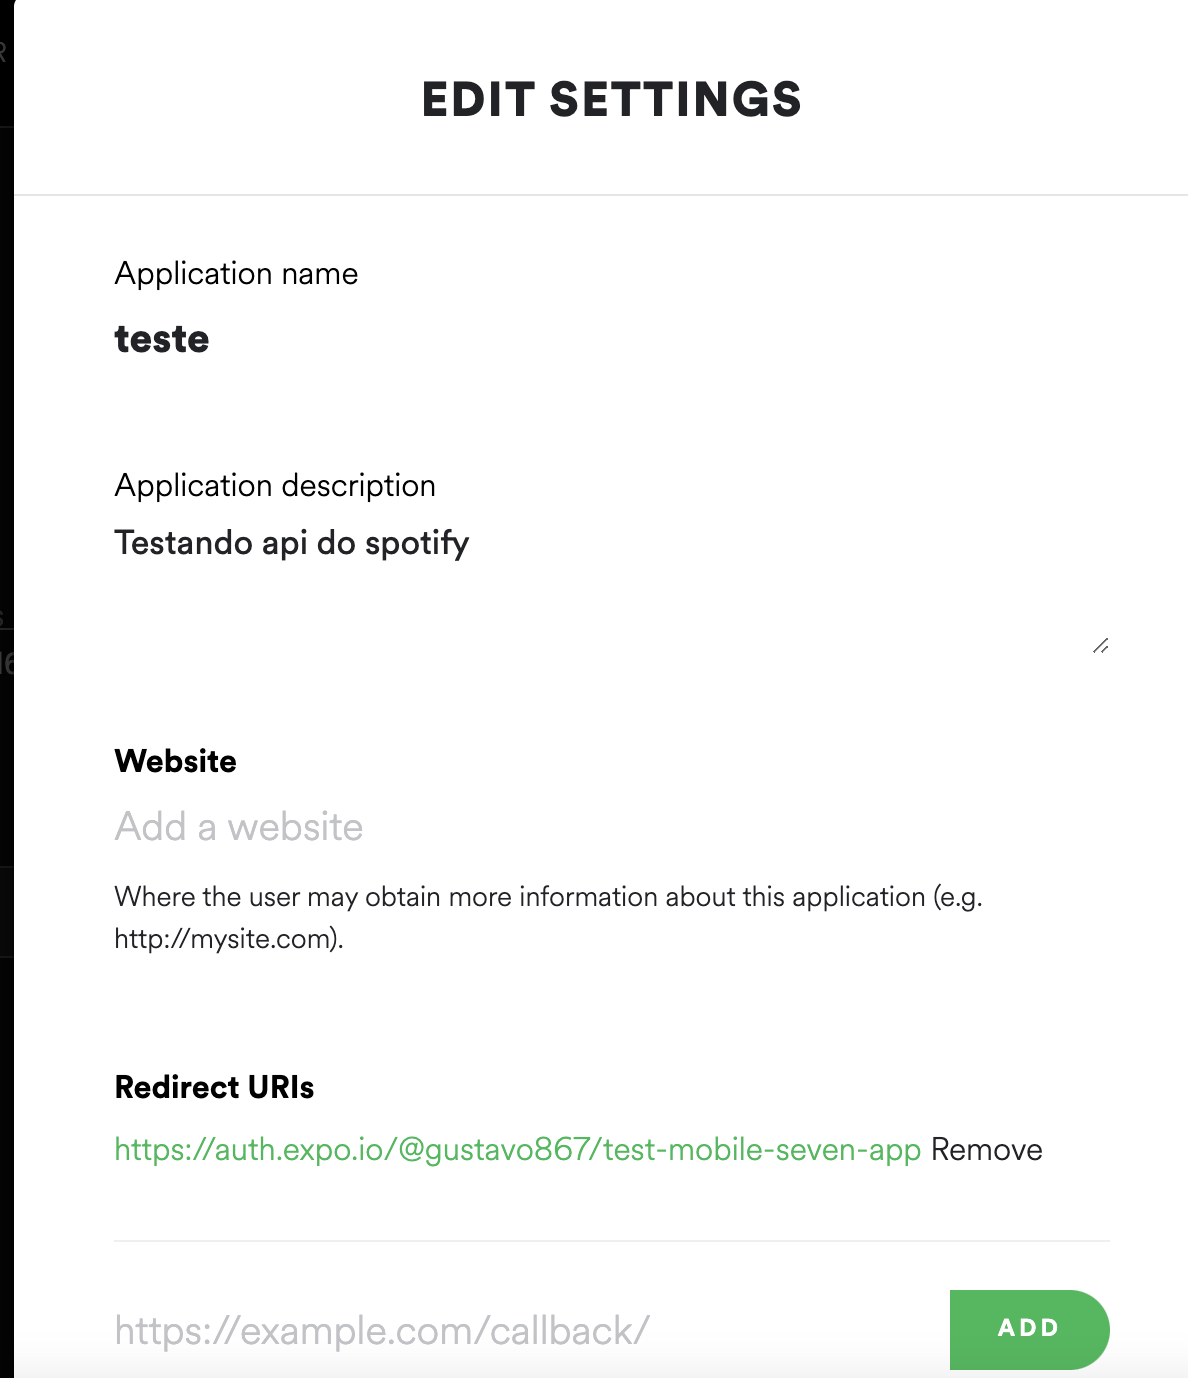
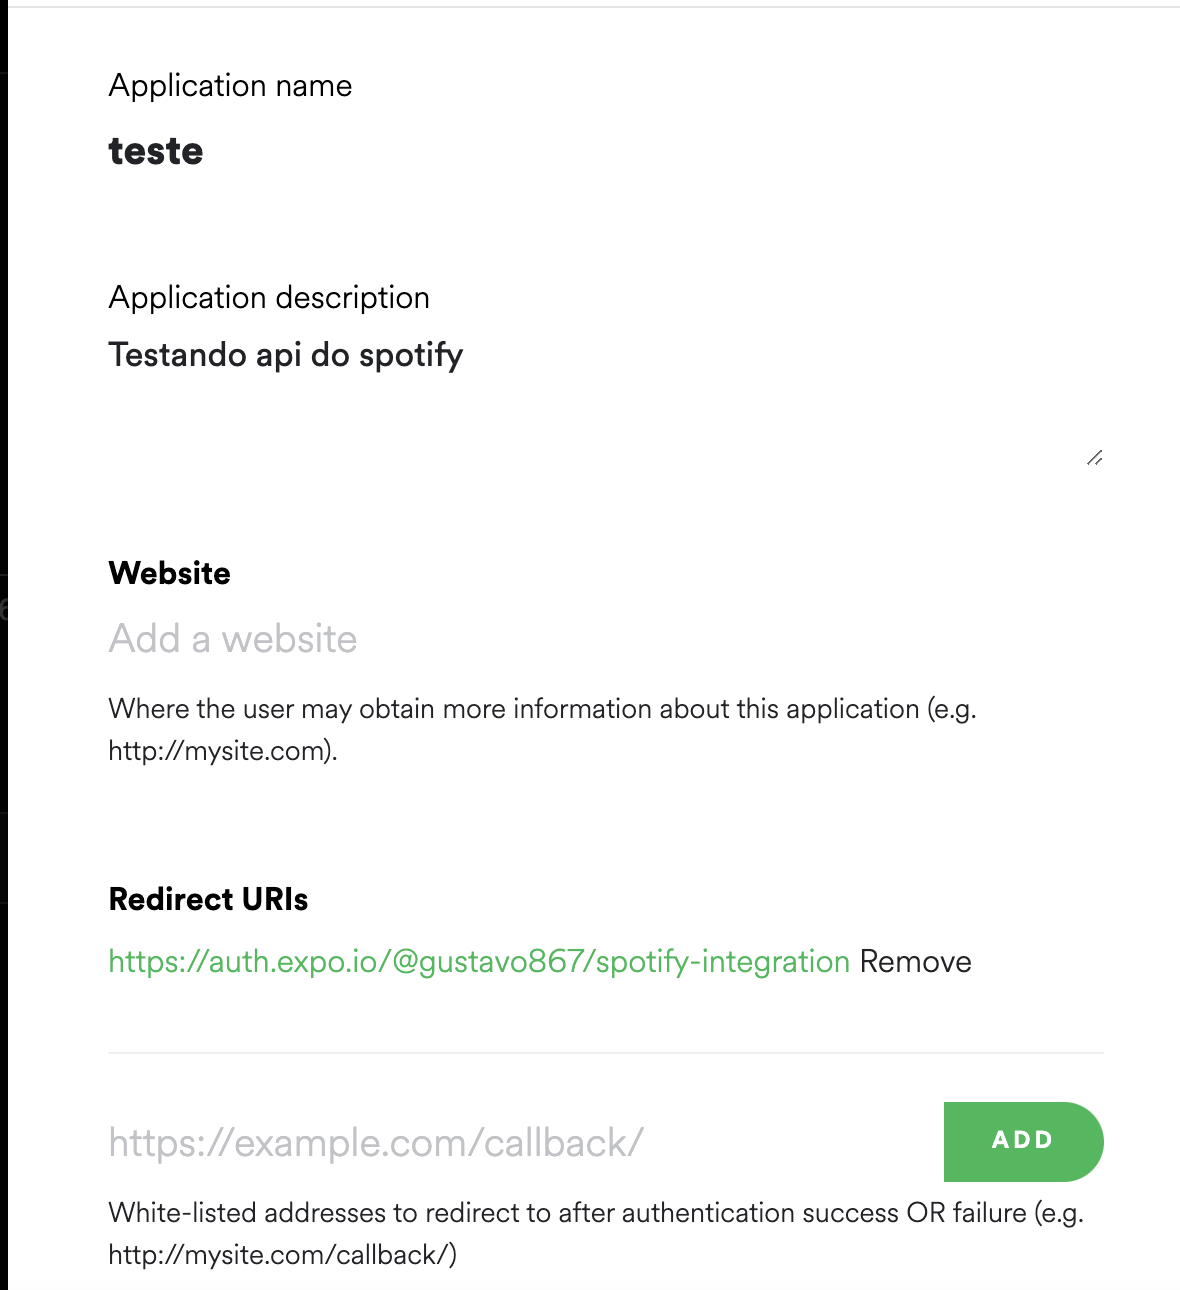
updating readme

diff --git a/README.md b/README.md
@@ -6,7 +6,7 @@
 
 <img src="./github/screenshot_1.png"></img>
 
-### Configure a url de redirecionamento para https://auth.expo.io/@seu-usuario/test-mobile-seven-app
+### Configure a url de redirecionamento para https://auth.expo.io/@seu-usuario/spotify-integration
 
 <img src="./github/screenshot_2.png"></img>
 
